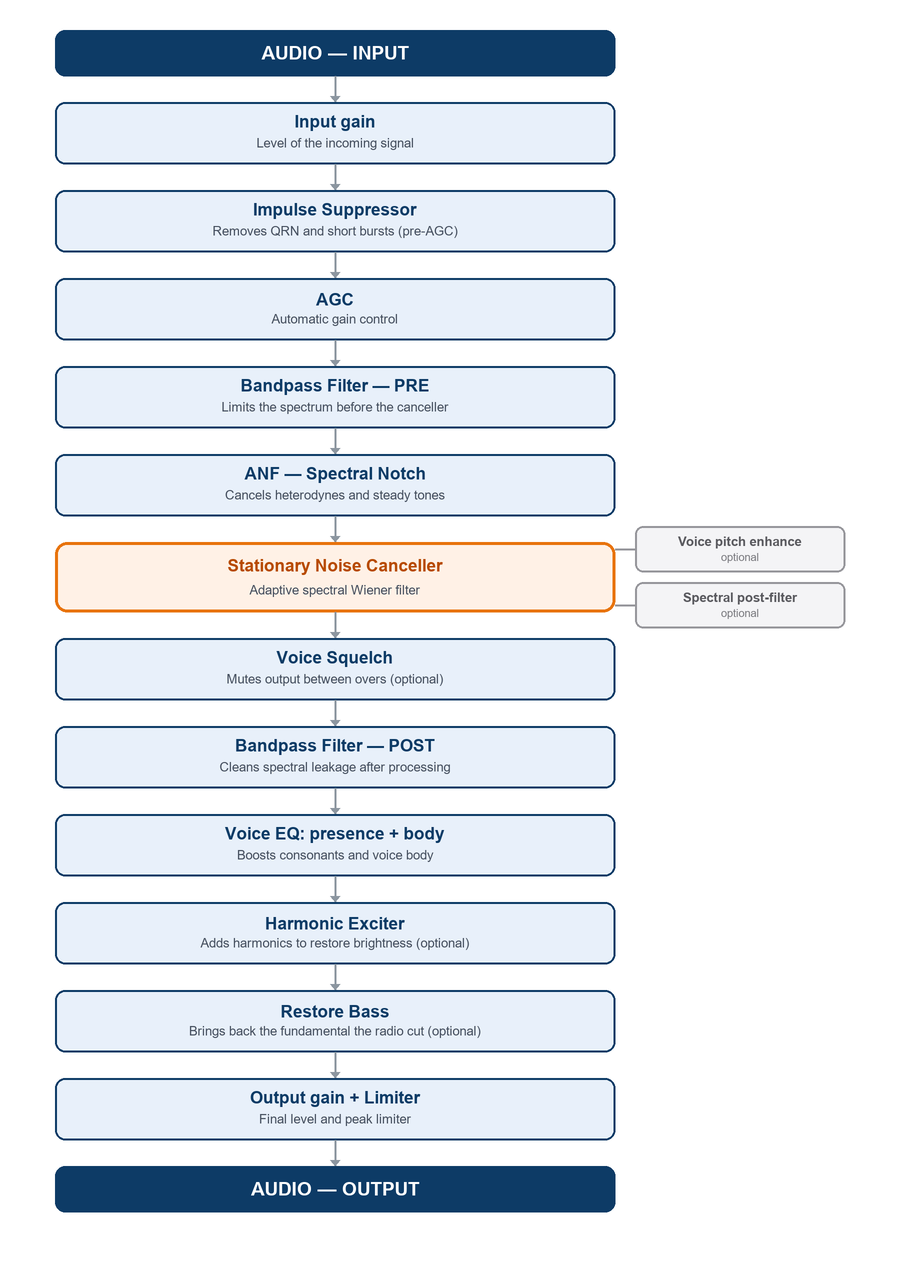
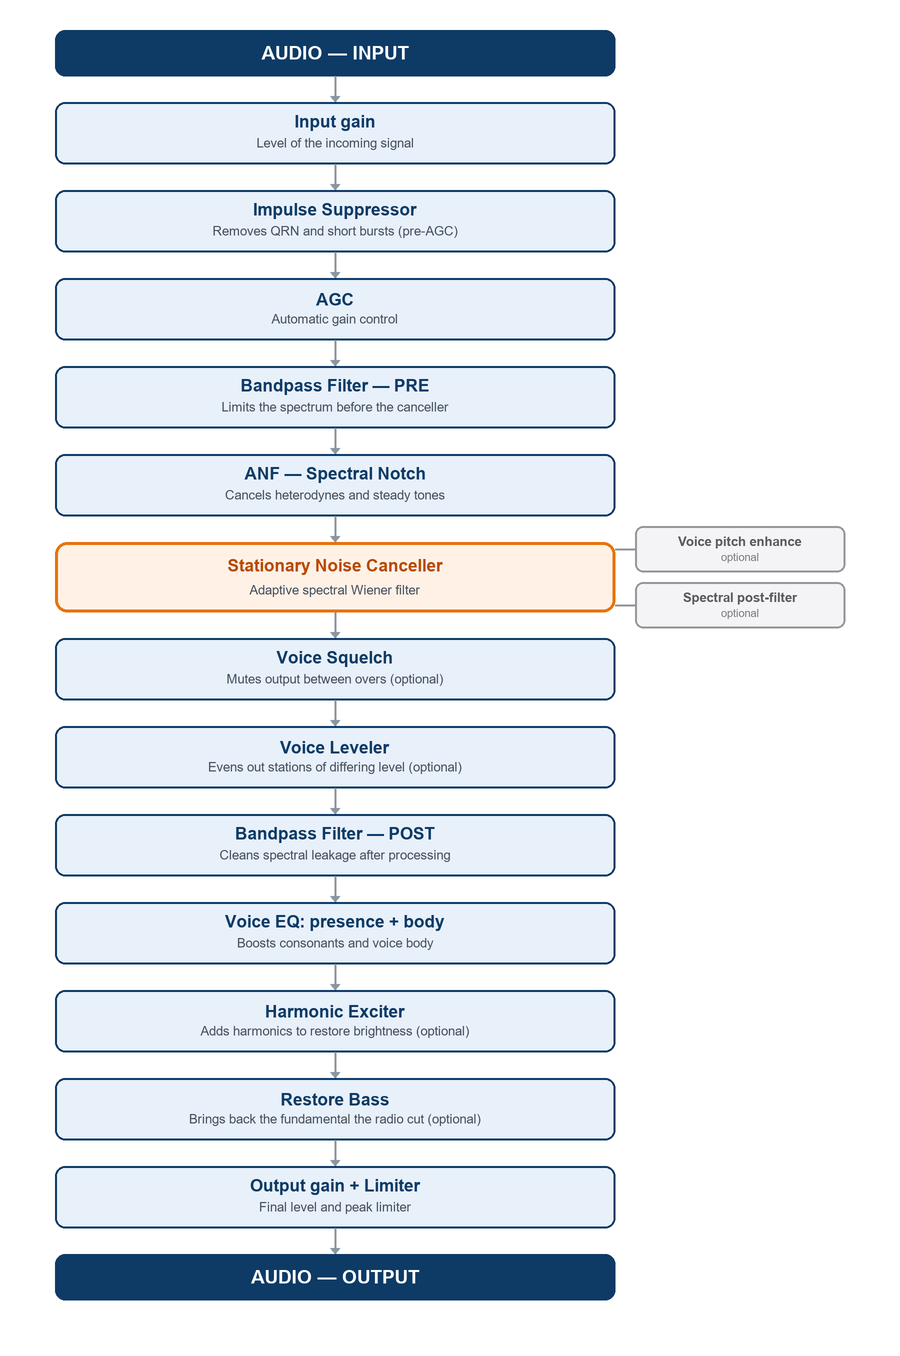
release: v2.2 — ANF con persistencia, supresor de impulsos redisenado y cascada Diferencia
Bump a 2.2.0 (main.py y titulo de ventana), manuales ES 41 pags / EN 40.

Salto de menor: no cambia el significado de ningun control, pero si el
comportamiento de dos detectores, y en los dos casos el cambio libera
valores que antes habia que evitar.

- ANF: exige persistencia temporal, asi que dejo de tomar armonicos de la
  voz por heterodinos. La Profundidad ya se puede subir a 90-100%; el
  consejo viejo de mantenerla baja era el sintoma de un defecto.
- Supresor de impulsos: detecta por contraste contra el audio vecino en
  vez de contra el piso de ruido, asi que dejo de comprimir la voz.

Cierre del release:
- Se corrigieron los tooltips del supresor, que seguian describiendo la
  semantica vieja ("veces por encima del piso de ruido"). Los manuales no
  la repetian, pero ahora explican el criterio nuevo.
- errores_dsp.log documentado en ambos manuales con sus dos avisos: no
  estaba en ningun lado y la app le pide al usuario que lo mande.
- Nivelador de voz agregado al diagrama del pipeline. Cierra el pendiente
  que esperaba un cambio de manual para no regenerar imagenes y PDFs dos
  veces; era la unica etapa real que el diagrama no mostraba.
- README: faltaba blanker.py en la estructura, y se sumaron el modo
  Diferencia y el criterio nuevo del supresor.
- Presets.zip regenerado con los tres presets reajustados en el aire.

Changed region(s): [[0.0622, 0.0308, 0.9644, 0.9842], [0.9333, 0.4614, 0.9644, 0.4921]]

diff --git a/src/i18n_en.py b/src/i18n_en.py
@@ -768,20 +768,26 @@ CATALOG = {
         "harmonics that did arrive. 100% is roughly what a natural voice would have.\n"
         "Start at 35% and go up slowly: too much bass shows up quickly.\n"
         "It goes quiet on its own when there is no voice.",
-    "Cuántas veces por encima del piso de ruido tiene que estar un pico de\n"
-    "10 ms para borrarlo (chasquidos de encendido, arranques de motor).\n"
+    "Cuántas veces por encima de SUS VECINOS inmediatos tiene que estar un\n"
+    "pico de 10 ms para borrarlo (chasquidos, arranques de motor). Compara\n"
+    "contra el nivel de al lado, no contra el piso: la voz es sostenida, así\n"
+    "que sus vecinos están igual de fuertes y no dispara.\n"
     "Agresivo puede comerse consonantes fuertes; suave deja pasar impulsos.\n"
     "15 es un buen punto de partida.":
-        "How many times above the noise floor a 10 ms peak has to be for it to be\n"
-        "erased (switch clicks, engine starts).\n"
+        "How many times above ITS IMMEDIATE NEIGHBOURS a 10 ms peak has to be for\n"
+        "it to be erased (clicks, engine starts). It compares against the level\n"
+        "right next to it, not against the floor: speech is sustained, so its\n"
+        "neighbours are just as loud and it does not trigger.\n"
         "Aggressive may eat strong consonants; soft lets impulses through.\n"
         "15 is a good starting point.",
     "Lo mismo pero para micro-impulsos de menos de 1 ms: cerco eléctrico,\n"
     "línea de alta tensión, chispas.\n"
-    "Bajalo si escuchás 'tics' rápidos que el otro umbral no agarra.":
+    "Bajalo si escuchás 'tics' rápidos que el otro umbral no agarra, o si\n"
+    "con QRN de descargas te parece que suprime de menos.":
         "Same thing but for micro-impulses under 1 ms: electric fences, power lines,\n"
         "sparks.\n"
-        "Lower it if you hear fast 'ticks' the other threshold does not catch.",
+        "Lower it if you hear fast 'ticks' the other threshold does not catch, or if\n"
+        "it seems to under-suppress on QRN from static crashes.",
     "Cuánto tiene que sobresalir una frecuencia sobre sus vecinas para que el\n"
     "ANF la trate como tono. Sensibilidad alta agarra heterodinos débiles pero\n"
     "puede tocar armónicos de la voz; baja va sólo por los silbidos evidentes.":

diff --git a/src/ui/tooltips.py b/src/ui/tooltips.py
@@ -165,15 +165,18 @@ SLIDER_TIPS = {
 
     # ---------------- Avanzada Impulsos ---------------- #
     "_s_blanker_frame": (
-        "Cuántas veces por encima del piso de ruido tiene que estar un pico de\n"
-        "10 ms para borrarlo (chasquidos de encendido, arranques de motor).\n"
+        "Cuántas veces por encima de SUS VECINOS inmediatos tiene que estar un\n"
+        "pico de 10 ms para borrarlo (chasquidos, arranques de motor). Compara\n"
+        "contra el nivel de al lado, no contra el piso: la voz es sostenida, así\n"
+        "que sus vecinos están igual de fuertes y no dispara.\n"
         "Agresivo puede comerse consonantes fuertes; suave deja pasar impulsos.\n"
         "15 es un buen punto de partida."
     ),
     "_s_blanker_mini": (
         "Lo mismo pero para micro-impulsos de menos de 1 ms: cerco eléctrico,\n"
         "línea de alta tensión, chispas.\n"
-        "Bajalo si escuchás 'tics' rápidos que el otro umbral no agarra."
+        "Bajalo si escuchás 'tics' rápidos que el otro umbral no agarra, o si\n"
+        "con QRN de descargas te parece que suprime de menos."
     ),
     "_s_anf_threshold": (
         "Cuánto tiene que sobresalir una frecuencia sobre sus vecinas para que el\n"

diff --git a/tools/gen_pipeline_diagram.py b/tools/gen_pipeline_diagram.py
@@ -52,6 +52,7 @@ STAGES = [
     ("ANF — Muesca Espectral", "ANF — Spectral Notch", "Cancela heterodinos y tonos fijos", "Cancels heterodynes and steady tones", "st"),
     ("Cancelador de Ruido Estacionario", "Stationary Noise Canceller", "Filtro Wiener espectral adaptativo", "Adaptive spectral Wiener filter", "main"),
     ("Squelch de Voz", "Voice Squelch", "Silencia la salida entre transmisiones (opcional)", "Mutes output between overs (optional)", "st"),
+    ("Nivelador de Voz", "Voice Leveler", "Empareja estaciones de nivel dispar (opcional)", "Evens out stations of differing level (optional)", "st"),
     ("Filtro de Paso de Banda — POST", "Bandpass Filter — POST", "Limpia fugas espectrales post-procesado", "Cleans spectral leakage after processing", "st"),
     ("EQ de Voz: presencia + cuerpo", "Voice EQ: presence + body", "Realza consonantes y cuerpo de la voz", "Boosts consonants and voice body", "st"),
     ("Excitador Armónico", "Harmonic Exciter", "Genera armónicos para recuperar brillo (opcional)", "Adds harmonics to restore brightness (optional)", "st"),

diff --git a/src/ui/main_window.py b/src/ui/main_window.py
@@ -2097,7 +2097,7 @@ class MainWindow(QMainWindow):
         valores actuales difieren del preset guardado) + build ID. Compara contra
         el snapshot en memoria — sin disco — para poder llamarse en cada cambio."""
         from buildinfo import BUILD_ID
-        title = "RadioNoiseKiller  v2.1  by LU6APA"
+        title = "RadioNoiseKiller  v2.2  by LU6APA"
         name = self._config.last_preset
         if name:
             self._refresh_preset_snapshot(force=False)

diff --git a/src/main.py b/src/main.py
@@ -26,7 +26,7 @@ from utils import resource_path
 def main():
     app = QApplication(sys.argv)
     app.setApplicationName("RadioNoiseKiller")
-    app.setApplicationVersion("2.1.0")
+    app.setApplicationVersion("2.2.0")
     icon_path = resource_path(os.path.join("Images", "RNK_ico.png"))
     if os.path.exists(icon_path):
         app.setWindowIcon(QIcon(icon_path))

diff --git a/CLAUDE.md b/CLAUDE.md
@@ -277,7 +277,24 @@ reajustaron en el aire. Todo el contenido de abajo se validó escuchando en la r
 iteraciones de ida y vuelta (ver los "reportado en el aire" de cada ítem: casi todos los fixes de
 esta versión salieron de una escucha que contradijo una medición sintética).
 
-**Post-v2.1: el fallo del hilo procesador era mudo — y no se recuperaba.** Reportado en el aire:
+**v2.2 publicada (agosto 2026)** — release en GitHub con distribuibles Windows y Linux. Versión de
+app 2.2.0, manuales `MANUAL_RadioNoiseKiller_v2.2.pdf` (ES, 41 págs) y `..._v2.2_EN.pdf` (EN, 40
+págs). Título "v2.2 by LU6APA". **Salto de menor**: no cambia el significado de ningún control, pero
+sí **cómo se comportan dos detectores**, y en los dos casos el cambio libera valores que antes había
+que evitar:
+- El **ANF** dejó de tomar armónicos de la voz por heterodinos (persistencia temporal), así que la
+  Profundidad ya se puede subir a 90–100 % — el consejo viejo de mantenerla baja era el síntoma de
+  un defecto, no una propiedad del filtro. Los presets de fábrica se reajustaron con eso.
+- El **supresor de impulsos** compara contra el audio vecino en vez de contra el piso de ruido, así
+  que dejó de comprimir la voz. Quien lo tenía apagado por eso puede volver a activarlo.
+
+Los nueve bloques que siguen son el detalle de esta versión. Todo validado en el aire salvo lo que
+diga lo contrario. Además: cascada en **modo Diferencia**, botón de donación (Cafecito) en el
+"Acerca de", diagnóstico del hilo DSP con `errores_dsp.log` documentado en los manuales, y el
+**Nivelador de voz agregado al diagrama del pipeline** (cerró el pendiente que esperaba justamente
+un cambio de manual para no regenerar las imágenes y los PDFs dos veces).
+
+**v2.2 — el fallo del hilo procesador era mudo — y no se recuperaba.** Reportado en el aire:
 *"cuando arranca en modo MCRA no genera el piso de ruido; la única forma es pasar a Perfil estático
 y volver a MCRA"*, con las tres cosas fallando a la vez (no calibra, no reduce, no dibuja el piso) y
 después **se arregló solo** sin saber por qué. No se pudo reproducir en el banco: se probaron cuatro
@@ -309,7 +326,7 @@ con señal con voz — todos calibran.
 - **Pendiente:** la causa que corrompió la curva en la máquina del usuario sigue sin identificarse.
   El log es la herramienta para la próxima vez.
 
-**Post-v2.1 — DESCARTADO por medición: criba armónica contra el splatter de SSB.** El usuario
+**v2.2 — DESCARTADO por medición: criba armónica contra el splatter de SSB.** El usuario
 preguntó si había algo de DSP para el splatter (productos de IMD de un vecino sobreexcitado). El
 cancelador no lo toca por diseño —es voz, no ruido estacionario, y el min-tracking del MCRA nunca lo
 mete en el piso—, así que se prototipó una **criba armónica**: detectar el f0 del corresponsal y
@@ -342,7 +359,7 @@ atenuar los bins ENTRE sus armónicos (el inverso del refuerzo de pitch, que los
   es el **pasabanda angostado del lado por el que entra** (Cap. 5 de ambos manuales, con el aviso de no
   bajar de 2,4 kHz y la explicación de por qué parte del splatter es co-canal e infiltrable).
 
-**Post-v2.1: el ANF tomaba armónicos de la voz por heterodinos.** Detectado por el usuario mirando
+**v2.2 — el ANF tomaba armónicos de la voz por heterodinos.** Detectado por el usuario mirando
 los **marcadores de heterodino de la cascada** (feature agregada post-v2.0): *"se ven muchas marcas
 rojas que parecen tener relación con la voz, porque si desactivo el ANF no se escucha nada extra"*.
 Los marcadores hicieron visible un defecto que llevaba ahí desde siempre.
@@ -387,7 +404,7 @@ Los marcadores hicieron visible un defecto que llevaba ahí desde siempre.
   heterodino de armónico es la **persistencia temporal**, no el umbral. Antes bajarlo multiplicaba
   los falsos positivos.
 
-**Post-v2.1: warmup de MCRA extendido a una ventana completa (B*M).** Reportado en el aire: *"no
+**v2.2 — warmup de MCRA extendido a una ventana completa (B*M).** Reportado en el aire: *"no
 anda el MCRA ni muestra la curva amarilla"*, y a los pocos segundos **se corrigió solo**. Con la app
 corriendo se verificó que **NO había `errores_dsp.log`** — o sea que no era una excepción del hilo
 procesador, que era toda la hipótesis anterior. Descartada.
@@ -408,7 +425,7 @@ procesador, que era toda la hipótesis anterior. Descartada.
   después del warmup, y con el warmup más largo 40 frames ya no llegaban — el test se ponía verde
   **sin ejercitar nada**. Ojo con ese patrón al tocar tiempos de warmup.
 
-**Post-v2.1: el supresor de impulsos destrozaba la voz.** Reportado en el aire: *"el supresor de
+**v2.2 — el supresor de impulsos destrozaba la voz.** Reportado en el aire: *"el supresor de
 impulsos causa una distorsión de la voz, es notoria al activarlo o no"*. Medido sobre voz **limpia y
 sin un solo impulso presente**: atenuaba el **26,5 %** de los mini-frames, **−6,8 dB** de voz y
 **−6,6 dB de distorsión** (casi el 50 % de la señal). Y el error **empeoraba cuanto mejor era la
@@ -449,12 +466,12 @@ señal** (−8,2 dB a S/N 30), que es lo que delató el diseño.
   mini-frames. No reintentarlo.
 - Test permanente en `test_dsp` (disparos, daño, distorsión, supresión de impulso real, y que
   **nunca amplifique**).
-- **Validado en el aire (parcial): con banda limpia ya no se escucha distorsión**, que era el
-  síntoma reportado. **Falta escuchar QRN real de descargas** — ahí es donde pesa el precio del
-  rediseño (la supresión del impulso bajó de −20,3 a −13,6 dB). Si aparece que suprime de menos, la
-  perilla a mover es el umbral mini hacia abajo; el margen está en el detector, no en la rampa.
+- **VALIDADO en el aire, completo** (confirmado al cerrar la v2.2): banda limpia sin distorsión
+  —el síntoma reportado— y también con QRN real de descargas, donde pesaba el precio del rediseño
+  (la supresión del impulso bajó de −20,3 a −13,6 dB). Si alguna vez suprime de menos, la perilla
+  a mover es el umbral mini hacia abajo; el margen está en el detector, no en la rampa.
 
-**Post-v2.1: "el estimador adaptativo no completa la calibración" — CUARTA rama, sin causa
+**v2.2 — "el estimador adaptativo no completa la calibración" — CUARTA rama, sin causa
 identificada.** El diagnóstico agregado antes hizo su trabajo: el usuario reportó exactamente el
 mensaje de "ninguna de las causas conocidas", lo que **descarta de una** las tres que sí se pueden
 ver desde afuera (excepción del hilo procesador, cancelador desactivado, falta de audio).
@@ -475,7 +492,7 @@ ver desde afuera (excepción del hilo procesador, cancelador desactivado, falta 
   visible.
 - Test en `test_ui`: la rama desconocida vuelca exactamente una vez.
 
-**Post-v2.1: la ganancia A/B de bypass ahora persiste.** Reportado: *"con o sin bypass se usa el
+**v2.2 — la ganancia A/B de bypass ahora persiste.** Reportado: *"con o sin bypass se usa el
 mismo nivel"*. El mecanismo A/B **funcionaba** —verificado manejando la UI: los dos slots guardan y
 restauran bien— pero **arrancaba con los dos slots en el mismo valor**, así que en cada arranque se
 volvía a "el mismo nivel en los dos modos" hasta ajustar de cada lado. Con una tanda de reinicios
@@ -492,7 +509,7 @@ volvía a "el mismo nivel en los dos modos" hasta ajustar de cada lado. Con una 
   la inversa: que los excluidos NO aparezcan en el preset. El guard sigue cubriendo campos futuros.
 - Test en `test_ui`: roundtrip por settings.json y recuperación en una sesión nueva.
 
-**Post-v2.1: cascada en modo Diferencia (entrada − salida).** Pedido del usuario: *"ver del lado
+**v2.2 — cascada en modo Diferencia (entrada − salida).** Pedido del usuario: *"ver del lado
 derecho la entrada y del izquierdo la salida para tener una comparativa visual"*. Se evaluó la vista
 doble y se descartó **por dos costos concretos**: con el ancho de ventana FIJO en 770 px cada panel
 queda con ~300 px de gráfico (contra ~700), y sobre todo **se rompe la alineación del eje X con el
@@ -526,7 +543,7 @@ un solo panel, sin perder resolución ni alineación, y sin comparar dos imágen
 - **VALIDADO en el aire** (revisión visual del usuario, agosto 2026). `DIFF_SPAN=30` queda como
   rango bueno; si alguna vez satura en rojo o se ve apagado, es la única perilla a mover.
 
-**Post-v2.1: botón de donación en "Acerca de" (Cafecito).** `_DONATE_URL` en `main_window.py` →
+**v2.2 — botón de donación en "Acerca de" (Cafecito).** `_DONATE_URL` en `main_window.py` →
 `https://cafecito.app/gpagliaroli`. **Con la constante vacía el botón no se agrega**: así un
 placeholder no puede viajar en un release hacia una página rota — mantener ese guard si se toca.
 La URL va también en el tooltip porque si `QDesktopServices.openUrl` falla (xdg-open mal
@@ -1809,11 +1826,6 @@ Pendiente para Fase 2:
   soportadas; el trámite pide 2FA, Stripe Connect y W-8BEN, y GitHub no cobra comisión).
   Si eso pasa, además hay que ver si el "Acerca de" muestra un botón o dos: hoy `_DONATE_URL` es
   una sola URL y habría que convertirla en una lista de `(etiqueta, url)`.
-- **Agregar el Nivelador de voz al diagrama del pipeline** (`tools/gen_pipeline_diagram.py`, lista
-  `STAGES`). Va entre el Squelch y el Filtro de Paso de Banda POST — es la única etapa del pipeline
-  real que el diagrama no muestra. Se difirió a propósito en la v2.1: el diagrama lo comparten el
-  README y los manuales ES+EN, así que tocarlo obliga a regenerar las dos imágenes y los dos PDFs.
-  **Hacerlo junto con el próximo cambio de manual**, no suelto.
 - Validar build en Pi real (ARM64 Raspberry Pi OS Bookworm)
 - Reducir/optimizar el tamaño total de la app. **Primera pasada hecha y validada en ambas
   plataformas (v1.5):** recorte de módulos Qt sin uso en ambos specs (`QT_EXCLUDES` + filtro

diff --git a/MANUAL.md b/MANUAL.md
@@ -1,6 +1,6 @@
 # RadioNoiseKiller — Manual de Usuario
 
-**Versión 2.1**
+**Versión 2.2**
 
 ---
 
@@ -250,6 +250,8 @@ Detecta y atenúa transientes cortos de alta energía: descargas atmosféricas (
 - **Nivel 2 (micro-trama de 0,67 ms):** detecta impulsos muy cortos — frituras, crackles, encendido de dispositivos cercanos.
 
 El indicador **Actividad** muestra en tiempo real cuántos impulsos por segundo está detectando (⚡ N /s).
+
+> **Qué significan los umbrales (cambió en la v2.2).** Los dos números son un **contraste contra los vecinos inmediatos**, no contra el piso de ruido: "15×" quiere decir *quince veces más fuerte que el audio de al lado*. Es el mismo principio que usa el ANF, pero en el tiempo en vez de en la frecuencia. La razón es que la voz es **sostenida** — sus vecinos están igual de fuertes, así que el cociente da ~1 y el detector no dispara. Un impulso, en cambio, es un trozo aislado rodeado de nada, y salta a la vista. Hasta la v2.1 la comparación era contra el piso de ruido, lo que hacía que con una señal 20 dB sobre el piso **toda sílaba cruzara el umbral**: el módulo no suprimía impulsos, comprimía la voz. Si venías con el supresor apagado por ese motivo, se puede volver a activar.
 
 ### Controles
 
@@ -1059,4 +1061,21 @@ Los valores de los sliders **Máx Y** y **Máx X** del visualizador de espectro 
 
 ---
 
-*RadioNoiseKiller — versión 2.1*
+## Si algo falla — el archivo de diagnóstico
+
+Junto al ejecutable, en la misma carpeta que `settings.json`, la aplicación puede crear un archivo llamado **`errores_dsp.log`**. Sólo aparece si algo salió mal: **si no existe, no hubo errores**.
+
+Dos avisos de la barra de estado lo mencionan, y conviene saber qué significan:
+
+| Aviso | Qué pasó | Qué hacer |
+|-------|----------|-----------|
+| **⚠ El procesador DSP está fallando — ver errores_dsp.log** | Una operación del procesamiento lanzó una excepción. **La aplicación no se cae**: se recupera sola y sigue con el audio siguiente, pero algo no está funcionando bien. | Mandar el archivo. Adentro está la línea exacta que falló. |
+| **El estimador adaptativo no completa la calibración** | El modo Adaptativo no termina de calibrar. El aviso dice **cuál** de las causas conocidas es (falta de audio, cancelador desactivado, error del procesador). Si dice que no es ninguna de ellas, es un caso que todavía no está identificado. | Probar el rodeo que funciona —pasar a *Perfil estático* y volver a *Adaptativo*— y **mandar el archivo**: en ese caso la aplicación vuelca ahí su estado interno completo. |
+
+El archivo se limita a unos pocos errores por sesión, así que no crece sin control, y se puede borrar sin consecuencias.
+
+> **Por qué existe:** un fallo del procesamiento antes no se veía. La aplicación se recuperaba sola y seguía andando, pero con el módulo afectado a medio funcionar, y desde afuera el único síntoma era "esto no está reduciendo el ruido" — sin nada que lo explicara. Estos avisos y este archivo son para que la próxima vez haya un rastro que se pueda leer.
+
+---
+
+*RadioNoiseKiller — versión 2.2*

diff --git a/MANUAL_EN.md b/MANUAL_EN.md
@@ -1,6 +1,6 @@
 # RadioNoiseKiller — User Manual
 
-**Version 2.1**
+**Version 2.2**
 
 ---
 
@@ -250,6 +250,8 @@ Detects and attenuates short high-energy transients: atmospheric discharges (QRN
 - **Level 2 (0.67 ms micro-frame):** detects very short impulses — crackle, static, nearby devices switching on.
 
 The **Activity** indicator shows in real time how many impulses per second are being detected (⚡ N /s).
+
+> **What the thresholds mean (changed in v2.2).** Both numbers are a **contrast against the immediate neighbours**, not against the noise floor: "15×" means *fifteen times louder than the audio right next to it*. It is the same principle the ANF uses, but in time instead of frequency. The reason is that speech is **sustained** — its neighbours are just as loud, so the ratio comes out around 1 and the detector does not fire. An impulse, by contrast, is an isolated blip surrounded by nothing, and it stands out. Up to v2.1 the comparison was against the noise floor, which meant that with a signal 20 dB above the floor **every syllable crossed the threshold**: the module was not suppressing impulses, it was compressing the voice. If you had the suppressor switched off for that reason, you can turn it back on.
 
 ### Controls
 
@@ -1057,4 +1059,21 @@ The **Max Y** and **Max X** sliders of the spectrum viewer are also saved in `se
 
 ---
 
-*RadioNoiseKiller — version 2.1*
+## If something goes wrong — the diagnostic file
+
+Next to the executable, in the same folder as `settings.json`, the application may create a file called **`errores_dsp.log`**. It only appears if something went wrong: **if it is not there, there were no errors.**
+
+Two status-bar warnings refer to it, and it helps to know what they mean:
+
+| Warning | What happened | What to do |
+|---------|---------------|------------|
+| **⚠ The DSP processor is failing — see errores_dsp.log** | An operation in the processing chain raised an exception. **The application does not crash**: it recovers on its own and carries on with the next audio, but something is not working properly. | Send the file. It contains the exact line that failed. |
+| **The adaptive estimator is not completing calibration** | Adaptive mode never finishes calibrating. The warning says **which** of the known causes it is (no audio, canceller disabled, processor error). If it says it is none of them, it is a case that has not been identified yet. | Try the workaround that works — switch to *Static profile* and back to *Adaptive* — and **send the file**: in that case the application dumps its full internal state there. |
+
+The file is capped at a few errors per session, so it does not grow without bound, and it can be deleted with no consequences.
+
+> **Why it exists:** a processing failure used to be invisible. The application recovered on its own and kept running, but with the affected module half working, and from the outside the only symptom was "this is not reducing the noise" — with nothing to explain it. These warnings and this file exist so that next time there is a trail somebody can read.
+
+---
+
+*RadioNoiseKiller — version 2.2*

diff --git a/README.md b/README.md
@@ -35,7 +35,8 @@ panorama general y las notas para quien quiera tocar el código.
 - **Dos modos de estimación** — perfil **estático** aprendido a mano, o **adaptativo (MCRA)** que
   sigue el piso de ruido en continuo sin intervención
 - **Post-filtro espectral** — segunda pasada que hunde el piso sólo en los bins de ruido
-- **Supresor de impulsos** — dos niveles en cascada (10 ms y 0,67 ms) para QRN atmosférico
+- **Supresor de impulsos** — dos niveles en cascada (10 ms y 0,67 ms) para QRN atmosférico,
+  detectados por contraste contra el audio vecino (no contra el piso), así la voz no dispara
 - **ANF** — filtro de muesca espectral adaptativo para heterodinos, portadoras y zumbidos
 - **Compensación de fading HF** — congela el estimador durante el QSB para que no se desajuste
 - **Squelch de voz** — silencia entre transmisiones, con cierre progresivo (sin cola de squelch)
@@ -59,6 +60,8 @@ panorama general y las notas para quien quiera tocar el código.
 
 - **Espectro en tiempo real** + **cascada** con historia ajustable (15–120 s), escala de color y
   marcadores de los tonos que está cancelando el ANF
+- **Cascada en modo Diferencia** — pinta cuánto quita el procesamiento en cada frecuencia y
+  momento, para ver de un vistazo si el cancelador está tocando la voz
 - **Presets** — 7 perfiles de fábrica afinados en el aire, más los propios
 - **Perfiles de ruido nombrados** — guardar y recuperar el ruido de cada banda o cada hora del día
 - **Grabación a WAV** — con opción de grabar en paralelo la entrada sin procesar, para el antes/después
@@ -162,6 +165,7 @@ src/
 │   ├── filters.py        # BandpassFilter + PresenceFilter (Butterworth / peaking IIR)
 │   ├── exciter.py        # AuralExciter: armónicos con carácter par/impar y gate por VAD
 │   ├── bass.py           # BassRestorer: fundamental derivado de los armónicos
+│   ├── blanker.py        # ImpulseBlanker: impulsos por contraste local en el tiempo
 │   ├── freq_shift.py     # FrequencyShifter: corrección de tono SSB
 │   ├── gain.py           # GainLimiter: limitador de picos con rodilla suave
 │   └── level.py          # LevelMeter: RMS con decaimiento
